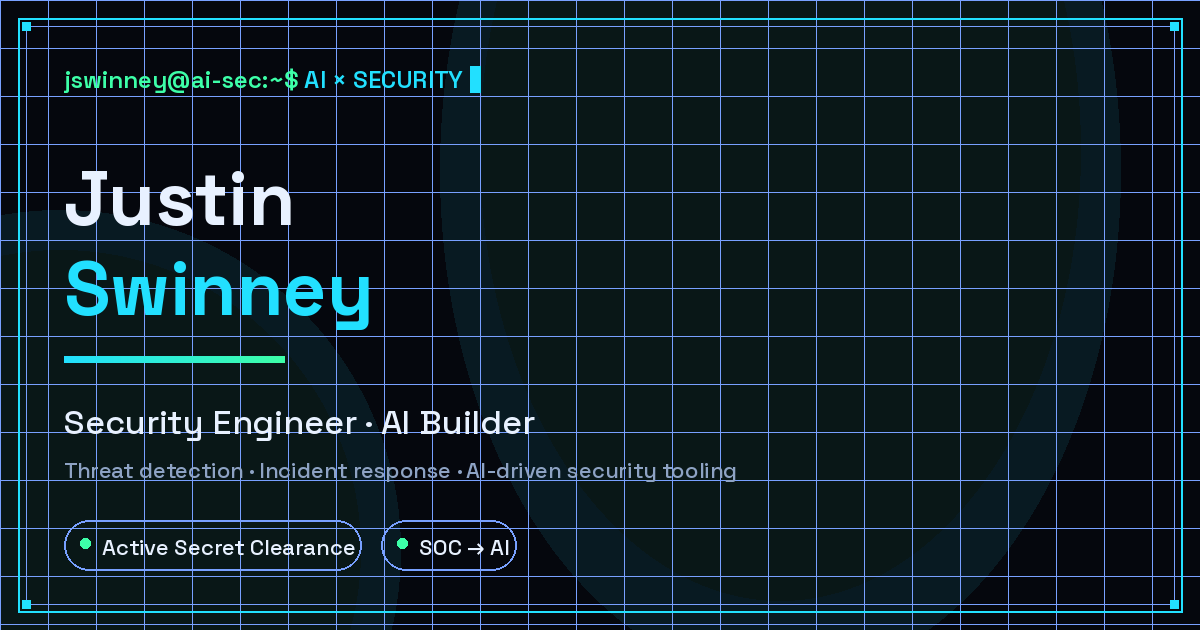
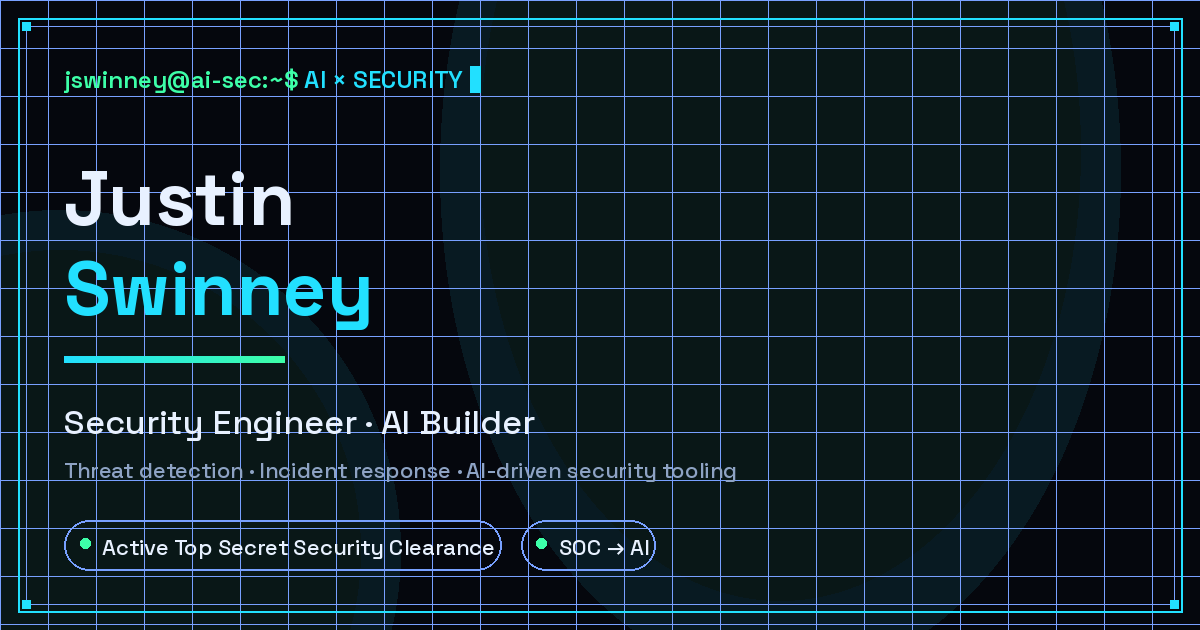
Update clearance to Top Secret, SOC experience to 6+ years

Changed region(s): [[0.1233, 0.8143, 0.555, 0.9048]]

diff --git a/index.html b/index.html
@@ -5,18 +5,18 @@
     <meta name="viewport" content="width=device-width, initial-scale=1.0">
     <meta name="theme-color" content="#05070d">
     <title>Justin Swinney — Security Engineer &amp; AI Builder</title>
-    <meta name="description" content="Security engineer and AI builder. Enterprise SOC experience in threat detection and incident response, now building AI-driven security tooling. Active Secret Clearance.">
+    <meta name="description" content="Security engineer and AI builder. Enterprise SOC experience in threat detection and incident response, now building AI-driven security tooling. Active Top Secret Security Clearance.">
 
     <!-- Open Graph / social previews -->
     <meta property="og:type" content="website">
     <meta property="og:url" content="https://jswinney.com/">
     <meta property="og:title" content="Justin Swinney — Security Engineer & AI Builder">
-    <meta property="og:description" content="Threat detection, incident response, and AI-driven security tooling. SOC professional · AI builder · Active Secret Clearance.">
+    <meta property="og:description" content="Threat detection, incident response, and AI-driven security tooling. SOC professional · AI builder · Active Top Secret Security Clearance.">
     <meta property="og:image" content="https://jswinney.com/og.png">
     <meta property="og:site_name" content="Justin Swinney">
     <meta name="twitter:card" content="summary_large_image">
     <meta name="twitter:title" content="Justin Swinney — Security Engineer & AI Builder">
-    <meta name="twitter:description" content="Threat detection, incident response, and AI-driven security tooling. Active Secret Clearance.">
+    <meta name="twitter:description" content="Threat detection, incident response, and AI-driven security tooling. Active Top Secret Security Clearance.">
     <meta name="twitter:image" content="https://jswinney.com/og.png">
 
     <link rel="icon" type="image/svg+xml" href="favicon.svg">
@@ -60,7 +60,7 @@
                     <a href="#contact" class="btn btn-ghost">Get In Touch</a>
                 </div>
                 <div class="hero-chips">
-                    <span class="chip">🛡 Active Secret Clearance</span>
+                    <span class="chip">🛡 Active Top Secret Security Clearance</span>
                     <span class="chip">📍 Leonardtown, MD</span>
                     <span class="chip">🎯 SOC → AI</span>
                 </div>
@@ -110,12 +110,12 @@
             </div>
             <div class="about-grid">
                 <div class="about-text">
-                    <p>I'm a security engineer with <strong>4+ years of enterprise SOC experience</strong> — real-time threat detection, incident response, and security control validation across cloud and on-prem environments at Caterpillar scale.</p>
+                    <p>I'm a security engineer with <strong>6+ years of enterprise SOC experience</strong> — real-time threat detection, incident response, and security control validation across cloud and on-prem environments at Caterpillar scale.</p>
                     <p>My day job is keeping attackers out and finding the ones who slip through: SIEM engineering, MITRE ATT&amp;CK-driven threat hunting, NIST compliance. My current obsession is the intersection where I think the next decade of security lives — <strong>AI agents and LLM tooling built with security-first guardrails</strong>, and using AI to make detection faster and smarter.</p>
-                    <p>I hold an <strong>Active Secret Clearance</strong> and certifications across security, cloud, and infrastructure.</p>
+                    <p>I hold an <strong>Active Top Secret Security Clearance</strong> and certifications across security, cloud, and infrastructure.</p>
                 </div>
                 <div class="stats">
-                    <div class="stat-card"><span class="stat-num">4+</span><span class="stat-label">Years SOC Experience</span></div>
+                    <div class="stat-card"><span class="stat-num">6+</span><span class="stat-label">Years SOC Experience</span></div>
                     <div class="stat-card"><span class="stat-num">50+</span><span class="stat-label">Daily Security Events</span></div>
                     <div class="stat-card"><span class="stat-num">5</span><span class="stat-label">Certifications</span></div>
                     <div class="stat-card"><span class="stat-num">Top 50</span><span class="stat-label">Splunk BOTS (2019)</span></div>
@@ -187,7 +187,7 @@
                 <div class="cert-card"><span class="cert-icon">☁</span><h3>AWS SAA-C03</h3><span class="cert-issuer">Amazon Web Services</span></div>
                 <div class="cert-card"><span class="cert-icon">🌐</span><h3>Network+</h3><span class="cert-issuer">CompTIA</span></div>
                 <div class="cert-card"><span class="cert-icon">🔧</span><h3>Terraform Associate</h3><span class="cert-issuer">HashiCorp</span></div>
-                <div class="cert-card"><span class="cert-icon">🛡</span><h3>Secret Clearance</h3><span class="cert-issuer">U.S. Government</span></div>
+                <div class="cert-card"><span class="cert-icon">🛡</span><h3>Top Secret Clearance</h3><span class="cert-issuer">U.S. Government</span></div>
             </div>
             <div class="achievements">
                 <h3 class="achievements-title">Notable Achievements</h3>
@@ -214,7 +214,7 @@
                     <div class="contact-item"><strong>Email</strong><a href="mailto:justin.swinney88@gmail.com">justin.swinney88@gmail.com</a></div>
                     <div class="contact-item"><strong>Phone</strong><a href="tel:+17023494456">+1 (702) 349-4456</a></div>
                     <div class="contact-item"><strong>Location</strong><span>Leonardtown, MD</span></div>
-                    <div class="contact-item"><strong>Clearance</strong><span class="clearance-tag"><span class="pulse-dot"></span> Active Secret</span></div>
+                    <div class="contact-item"><strong>Clearance</strong><span class="clearance-tag"><span class="pulse-dot"></span> Active Top Secret Security Clearance</span></div>
                     <div class="contact-social">
                         <a href="https://linkedin.com/in/justinswinney" class="social-link" target="_blank" rel="noopener">in ▸ LinkedIn</a>
                         <a href="https://github.com/swinneyj" class="social-link" target="_blank" rel="noopener">&lt;/&gt; GitHub</a>
